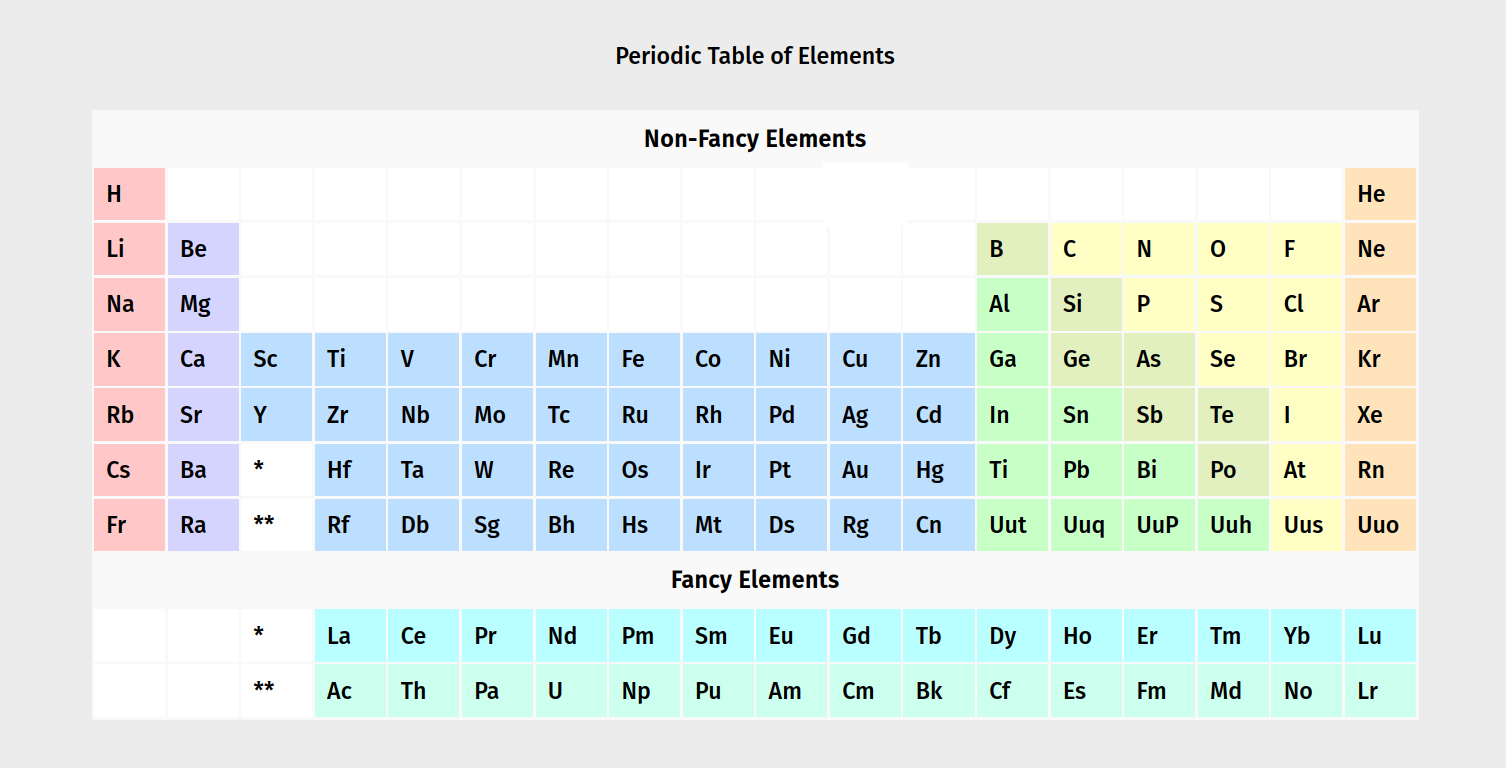
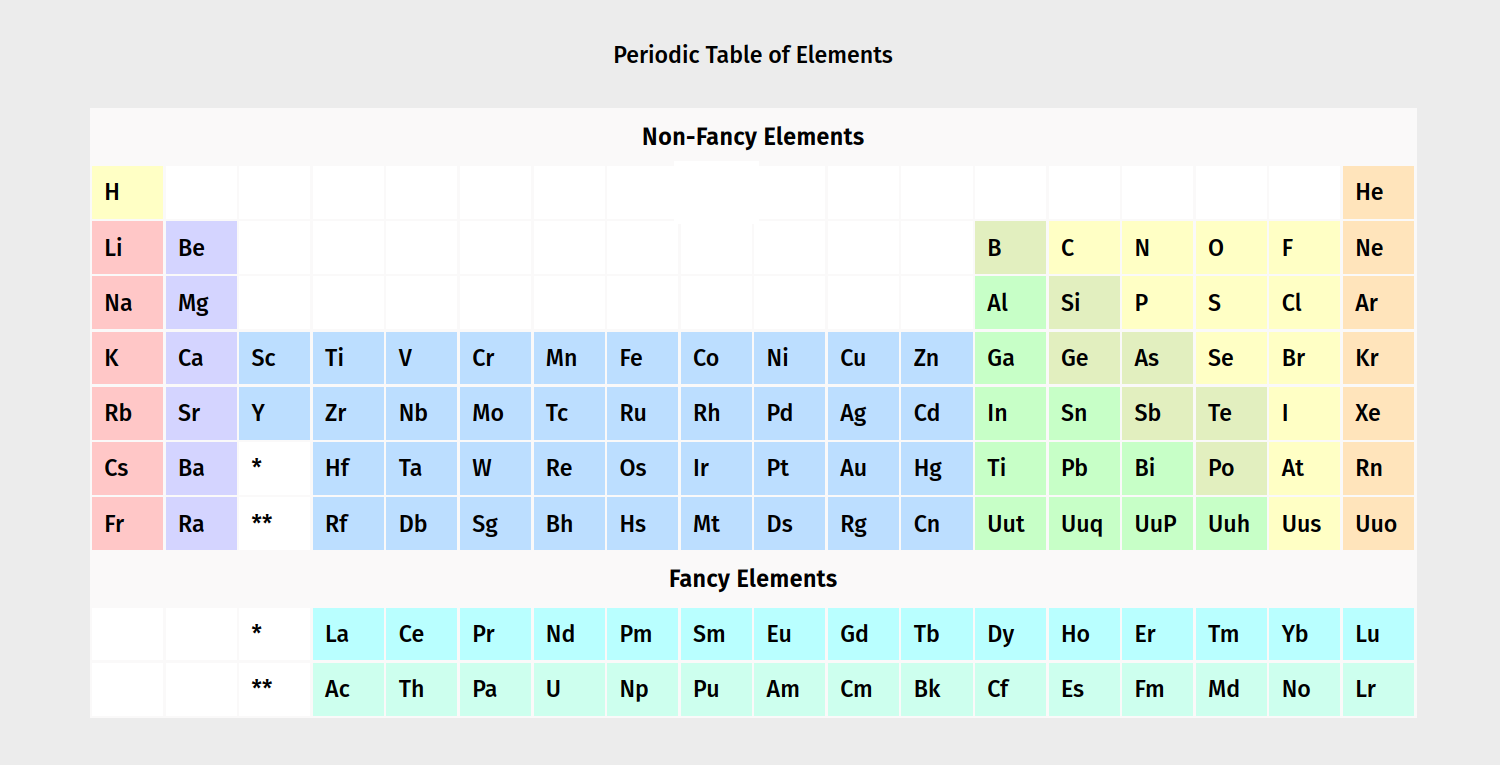
Add README

diff --git a/css/style.css b/css/style.css
@@ -77,14 +77,15 @@ td:nth-child(18) {
   background: var(--noble-gas);
 }
 
-/* Exceptions: --post-transition-metal  --metalloid --noble-gas*/
-tr:nth-child(n + 4) td:nth-child(n + 13):nth-child(-n + 13),
-tr:nth-child(n + 6) td:nth-child(n + 13):nth-child(-n + 14),
-tr:nth-child(n + 7) td:nth-child(n + 13):nth-child(-n + 15),
-tr:nth-child(n + 8) td:nth-child(n + 13):nth-child(-n + 16) {
+/* "Stair-shaped" block*/
+tr:nth-child(n + 4):nth-child(-n + 8) td:nth-child(n + 13):nth-child(-n + 13),
+tr:nth-child(n + 6):nth-child(-n + 8) td:nth-child(n + 13):nth-child(-n + 14),
+tr:nth-child(n + 7):nth-child(-n + 8) td:nth-child(n + 13):nth-child(-n + 15),
+tr:nth-child(n + 8):nth-child(-n + 8) td:nth-child(n + 13):nth-child(-n + 16) {
   background: var(--post-transition-metal);
 }
 
+tr:nth-child(-n + 2) td:nth-child(n + 1):nth-child(-n + 1),
 tr:nth-child(-n + 8) td:nth-child(n + 17):nth-child(-n + 17),
 tr:nth-child(-n + 5) td:nth-child(n + 16):nth-child(-n + 17),
 tr:nth-child(-n + 4) td:nth-child(n + 15):nth-child(-n + 17),
@@ -94,11 +95,11 @@ tr:nth-child(-n + 3) td:nth-child(n + 14):nth-child(-n + 17) {
 
 /* Fancy Rows */
 /* Pseudo classes on td only for specificity */
-tr:nth-child(n + 10) td:nth-child(n + 1):nth-child(-n + 18) {
+tr:nth-child(n + 10) td {
   background: var(--lanthanide);
 }
 
-tr:nth-child(n + 11) td:nth-child(n + 1):nth-child(-n + 18) {
+tr:nth-child(n + 11) td {
   background: var(--actinide);
 }
 
